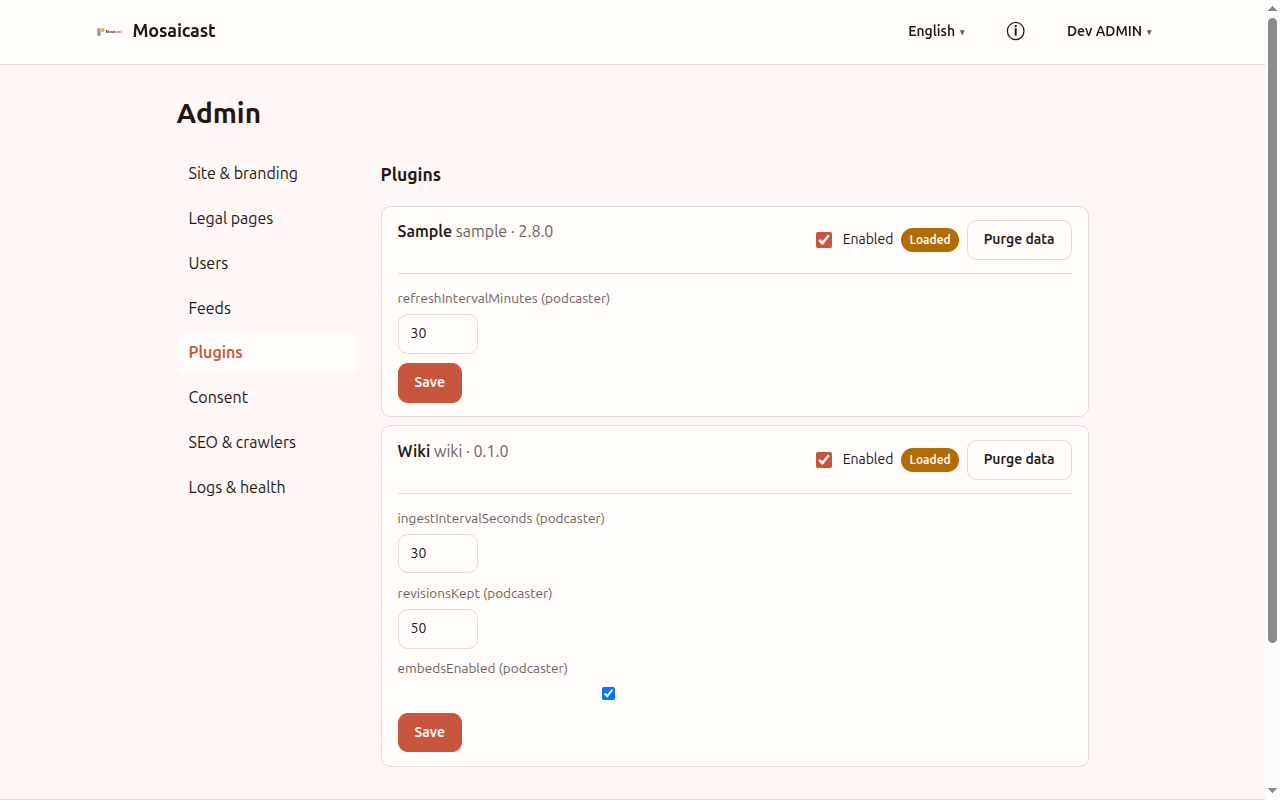
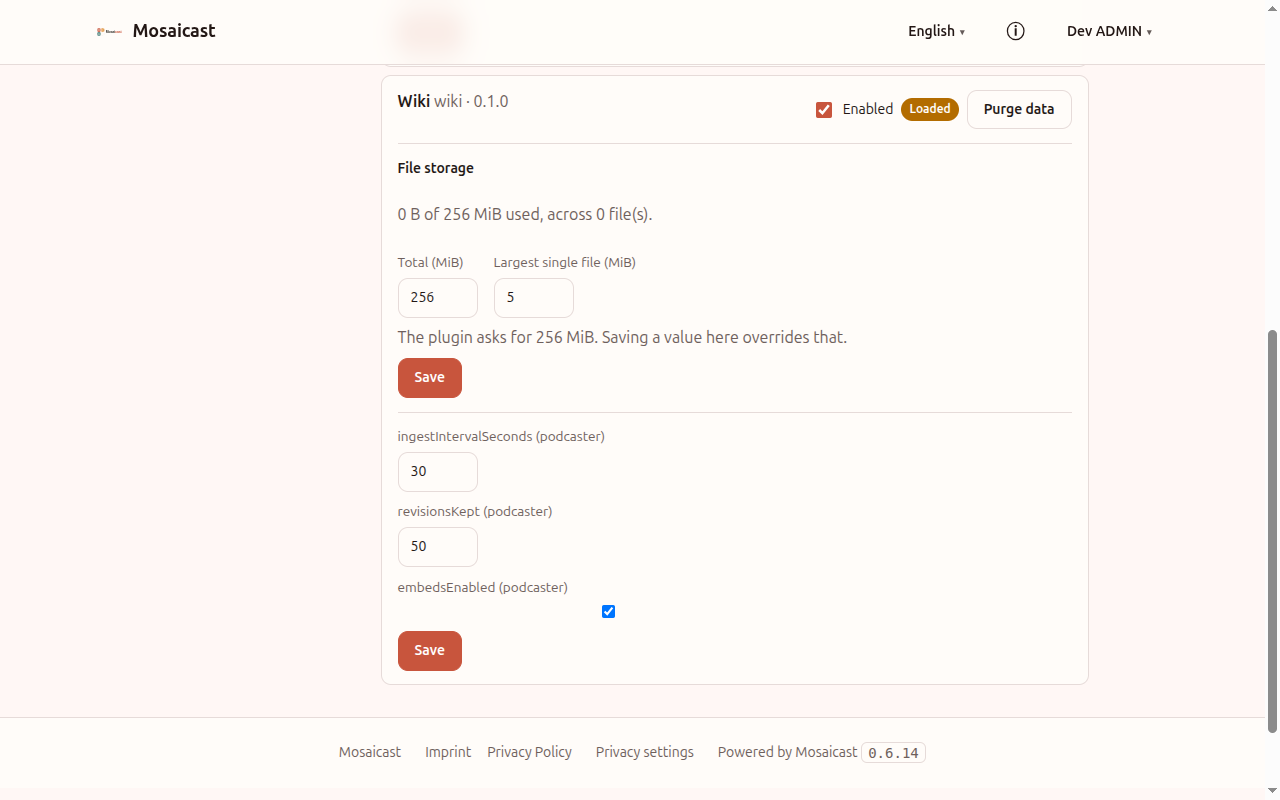
feat: move to SDK 0.8.0 and declare file storage
Core 0.6.14 demands an exact major.minor match, so a 0.7.1
manifest is now rejected at load. Bumps the pin in all four
places: plugin.json, both gradle coordinates, package.json.

Both gaps this repo filed upstream are closed, and the wiki
takes them up rather than keeping the workarounds:

- Mosaicast/mosaicast-core#81 shipped file storage, so the
  manifest declares a `blobs` block and `media` gains an
  `uploadRef` column now rather than as a later additive
  migration -- nothing is deployed yet, and a changed field
  type refuses the plugin at load. Uploaded media is served
  same-origin under /api/, so unlike an external URL it needs
  no CSP host and makes no consent decision. That is the
  better default for a wiki, and it weakens the case for the
  iframe embeds phase 3 was going to weigh.

- Mosaicast/mosaicast-core#82 shipped timestamped episode
  links, which arrive as ctx.links.episode(slug, { t }) -- an
  episode card can now cite a moment, not just an episode.

SVG is deliberately absent from mimeTypes: it is a script
container wearing an image extension, it is rejected at load,
and an operator cannot re-enable it. Pinned with a test so a
well-meaning "support vector diagrams" edit fails in CI.

Verified against a live core 0.6.14 stack: uploadRef column
and its index provisioned; blob quota reports the declared
5 MiB/256 MiB; a PNG uploads (201) and serves anonymously with
Range (206); an unknown ref 404s; an anonymous write 403s; an
[…]

diff --git a/frontend/src/types.ts b/frontend/src/types.ts
@@ -26,6 +26,33 @@ export interface PageRow {
   revisionNo: number | null;
 }
 
+/**
+ * A row of the `media` entity: one image, document or embed a page shows.
+ *
+ * Exactly one of the two locations is set. `uploadRef` names a file this plugin stores through
+ * `ctx.blobs`; **the ref is the identity and the URL is derived** from it with `ctx.blobs.urlFor(ref)` at
+ * render time, because a stored URL is a copy of a decision the host is entitled to change. `url` is for
+ * media that lives somewhere else entirely.
+ *
+ * An uploaded file is served same-origin under `/api/`, so it needs no CSP host and makes no consent
+ * decision — which an external URL cannot say, and which is the reason to prefer uploading.
+ *
+ * Nothing collects orphans: a file outlives the row that named it, so the backend deletes what the wiki
+ * stops pointing at.
+ */
+export interface MediaRow {
+  id: number;
+  pageSlug: string;
+  /** Absolute URL of external media; empty when this row is an upload. */
+  url: string | null;
+  kind: 'image' | 'audio' | 'video' | 'document' | 'embed';
+  provider: string | null;
+  caption: string | null;
+  position: number | null;
+  /** Blob ref of an uploaded file; empty when this row is external. Never store a URL here. */
+  uploadRef: string | null;
+}
+
 /** A row of the `link` entity: one edge out of a page, to a wiki page, an episode or the open web. */
 export interface LinkRow {
   id: number;

diff --git a/frontend/src/manifest.test.ts b/frontend/src/manifest.test.ts
@@ -48,6 +48,20 @@ describe('plugin.json', () => {
     }
   });
 
+  it('never asks to store SVG, which is a script container wearing an image extension', () => {
+    // Rejected at load, and an operator cannot re-enable it either — it is filtered out of the install's
+    // allow-list too. Asserted here so a well-meaning "support vector diagrams" edit fails in tests.
+    expect(manifest.blobs.mimeTypes).not.toContain('image/svg+xml');
+  });
+
+  it('declares positive blob limits, since a non-positive one is rejected at load', () => {
+    expect(manifest.blobs.maxFileBytes).toBeGreaterThan(0);
+    expect(manifest.blobs.quotaBytes).toBeGreaterThan(0);
+    expect(manifest.blobs.maxFileBytes).toBeLessThanOrEqual(manifest.blobs.quotaBytes);
+    // A present-but-empty list is rejected too: omit the field to take the operator's list instead.
+    expect(manifest.blobs.mimeTypes.length).toBeGreaterThan(0);
+  });
+
   it('declares a fulltext field, which is the whole reason for a schema', () => {
     const fields = Object.values(manifest.storage.schema.page) as string[];
     expect(fields.some((type) => type.includes(':fulltext'))).toBe(true);

diff --git a/backend/src/test/java/dev/mosaicast/plugin/wiki/WikiPluginTest.java b/backend/src/test/java/dev/mosaicast/plugin/wiki/WikiPluginTest.java
@@ -38,7 +38,7 @@ class WikiPluginTest {
                         "author", "createdAt")
                 .withEntity("link", "fromSlug", "toSlug", "kind", "label")
                 .withEntity("source", "pageSlug", "label", "url", "note", "accessedAt", "position")
-                .withEntity("media", "pageSlug", "url", "kind", "provider", "caption", "position");
+                .withEntity("media", "pageSlug", "url", "kind", "provider", "caption", "position", "uploadRef");
     }
 
 

diff --git a/CLAUDE.md b/CLAUDE.md
@@ -11,7 +11,8 @@ Read both fully before writing code. Work in plan mode first.
 ### `docs/BRIEF.md` is stale — known corrections
 It predates SDK 0.4.0 and is a read-only spec, so the corrections live here instead of in it. Where it
 disagrees with the SDK working tree or `mosaicast-plugin-sample`, the latter win.
-- `platformApi` is **`0.7.1`** (exact `major.minor` match; the docs' `"1.x"` does not even parse).
+- `platformApi` is **`0.8.0`** (exact `major.minor` match; the docs' `"1.x"` does not even parse). Pin the
+  same string in all four places — `plugin.json`, both gradle coordinates, `package.json`.
 - Its `site / main` slot **renders nowhere** — `main` is the *episode page body*. This plugin uses
   `placement: "page"` (scope `site`, required or `/p/wiki/*` is a real 404) plus `placement: "site"`.
   `placement: "admin"` also validates but renders nowhere, so podcaster tooling lives at `/p/wiki/_admin`.
@@ -19,11 +20,18 @@ disagrees with the SDK working tree or `mosaicast-plugin-sample`, the latter win
   against its own DoD. `readableBy: "anonymous"` is declared explicitly.
 - Consent is `consent.services[]`; its `{ categories, externalSources }` shape is rejected since 0.4.0.
 
-### Platform gaps this plugin is designed around
-- **No blob/upload surface for plugins** ([core#81](https://github.com/Mosaicast/mosaicast-core/issues/81)) —
-  media is external URLs only; the `media` entity gains an `uploadRef` column additively when it lands.
-- **No timestamped episode links** ([core#82](https://github.com/Mosaicast/mosaicast-core/issues/82)) —
-  a page can cite an episode, but not a moment in one.
+### Platform surfaces this plugin depends on
+Both gaps this repo filed are **closed** — [core#81](https://github.com/Mosaicast/mosaicast-core/issues/81)
+(file storage) and [core#82](https://github.com/Mosaicast/mosaicast-core/issues/82) (timestamped episode
+links) shipped in SDK 0.8.0 / core 0.6.11+.
+- **`ctx.blobs`** (manifest `blobs` block; `null` without one). **Store the `ref`, never the URL** —
+  `urlFor(ref)` is derived at render time. **Nothing collects orphans**: the ingest tick deletes what the
+  wiki stops pointing at. `quota()` is the only honest source for the effective limits (an admin grant
+  *replaces* the manifest's ask). **SVG is never storable.** Uploads are served same-origin under `/api/`,
+  so they need no CSP host and make no consent decision — prefer them to external URLs.
+- **`ctx.links.episode(slug, { t })`** for citing a moment; `ctx.links.feed(slug, …)`. Never hardcode
+  `/episodes/…` or `/feeds/…`.
+- Core 0.6.12 ships its **own share dialog** on episodes, feeds and the site panel — do not build a second.
 - **No request-time backend hook** (v1 contract, ARCHITECTURE §7.6) — hence the draft/ingest write path.
 
 ## Tech stack
@@ -46,6 +54,16 @@ dev/screenshots.sh down
 Disposable and seeded only with the fictional sample feed — seeding and deleting wiki data there is free.
 Core loads plugins **at startup only**: a rebuilt backend needs a restart (a rebuilt bundle does not).
 Capture light + dark at 375×667, 768×1024, 1280×800 into `assets/screenshots/`; put them in the PR.
+
+## npm lockfile gotcha (recurs on every dependency bump)
+npm 11.16.0 records esbuild's 27 optional platform binaries as `extraneous`, so `npm ci` tries to install
+netbsd-arm64 on an x64 runner and fails with EBADPLATFORM. npm 10 omits the entries entirely, which npm 11
+then rejects as out of sync. After any dependency change, regenerate and correct:
+```
+rm -rf node_modules package-lock.json && npm install --ignore-scripts
+# then rewrite each `"extraneous": true` to `"dev": true, "optional": true`
+npm ci && npx npm@10 ci     # both must pass before pushing
+```
 
 ## Storage model (why two stores)
 `schema` = read model (`plugin_wiki_*`, queried read-only from the frontend via `ctx.schema`).

diff --git a/README.md b/README.md
@@ -32,7 +32,7 @@ Core loads plugins **at startup only**, so every rebuild needs a restart.
 ```
 
 ## How it stores things
-Two stores, on purpose:
+Three stores, each for what it is good at:
 
 - **Schema** (`plugin_wiki_page`, `_revision`, `_link`, `_source`, `_media`) — the read model. The platform
   provisions the tables from `plugin.json`; the plugin never writes DDL. The frontend queries them
@@ -40,6 +40,8 @@ Two stores, on purpose:
 - **Doc store** — the write channel. There are no schema writes over HTTP, so the editor saves a
   `draft:<slug>` document and the backend ingests it into the tables on its schedule. **A save is therefore
   eventually consistent**, and the UI says so rather than pretending otherwise.
+- **Blobs** (`ctx.blobs`) — uploaded images and documents, served same-origin under `/api/`, so they need no
+  CSP host and make no consent decision. A row stores the file's **ref**, never a URL. SVG is never stored.
 
 ## Contributing
 Contributions welcome — see [`CONTRIBUTING.md`](CONTRIBUTING.md). In short: `git commit -s` (DCO, required), SPDX header in new files, add tests.
